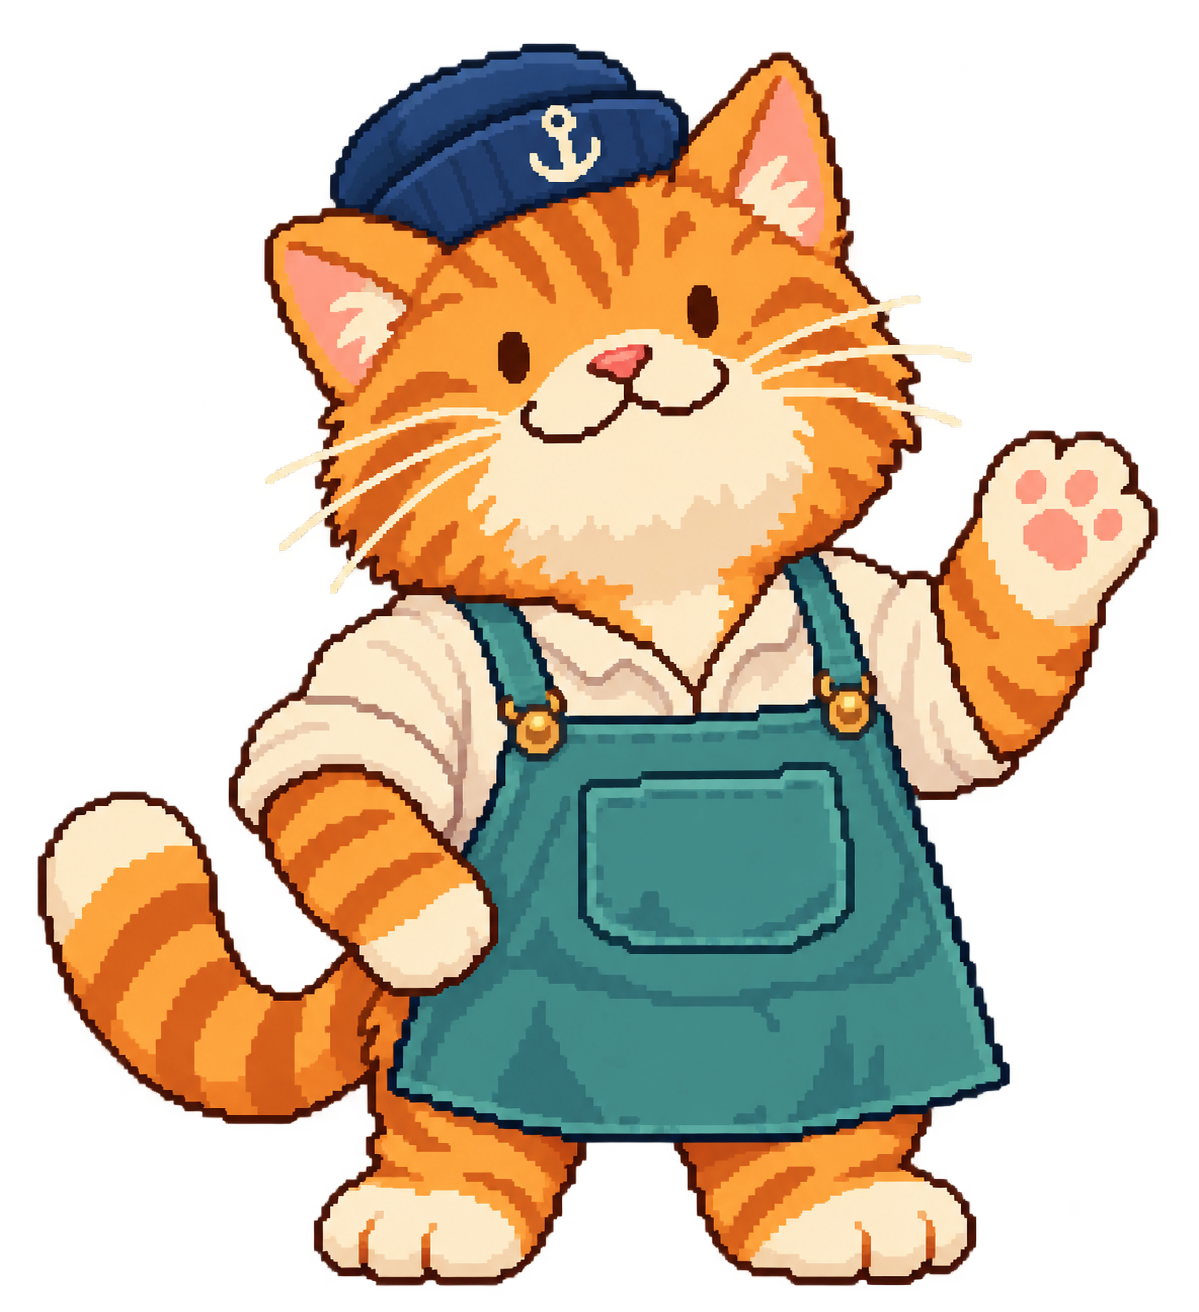
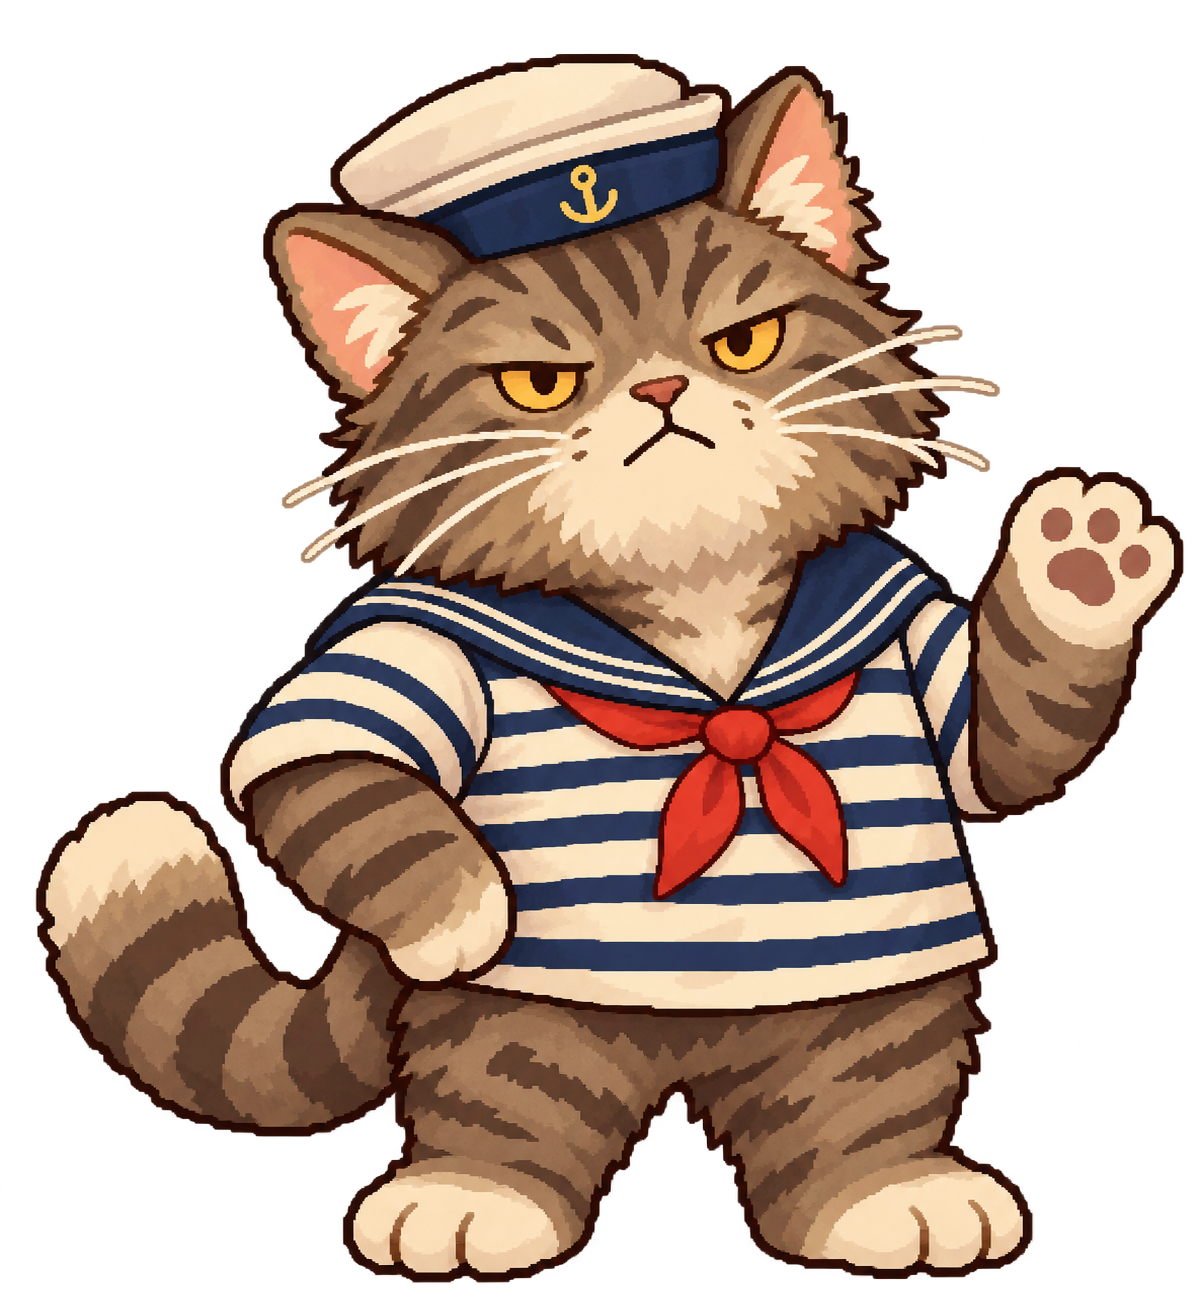
Polish fishing animations and Billy interactions

diff --git a/js/fishing/app.js b/js/fishing/app.js
@@ -1,9 +1,9 @@
 import { catches, rods, living, spriteURL, discoveries, catchSize } from './catches.js';
-import { everydayIds, dailyStock, itemById, owned, buy, toggleDecor, coinReward, billyLines } from './shop.js?v=20261026-billy-portrait';
+import { everydayIds, dailyStock, itemById, owned, buy, toggleDecor, coinReward, billyLines } from './shop.js?v=20261027-billy-lines';
 import { createStore, freshSave } from './save.js?v=20261026-billy';
 import { FishingGame } from './game.js?v=20261026-billy';
-import { FishingAudio } from './audio.js?v=20261026-billy';
-import { Renderer, loadArt } from './renderer.js?v=20261026-billy';
+import { FishingAudio } from './audio.js?v=20261027-billy-meow';
+import { Renderer, loadArt } from './renderer.js?v=20261027-bite-clearance-fix';
 import { bindInput } from './input.js';
 import { renderCollection, showDetails } from './aquarium.js?v=20261023-aquarium-calm';
 const $ = selector => document.querySelector(selector);
@@ -13,7 +13,7 @@ export async function start() {
   let storage;
   try { storage = window.localStorage; } catch { storage = { getItem() { throw Error(); }, setItem() { throw Error(); }, removeItem() { throw Error(); } }; }
   const store = createStore(storage, message => { $('#save-warning').textContent = message; $('#save-warning').hidden = false; });
-  let save = store.load(), score = 0, view = 'fish', manualPaused = false, filter = 'all', time = 0, billyLine = -1;
+  let save = store.load(), score = 0, view = 'fish', manualPaused = false, filter = 'all', time = 0, billyLine = -1, billyReactionTimer = null, billyPetted = false;
   let confirmAction = null, focusBeforeDialog = null;
   const reduced = matchMedia('(prefers-reduced-motion: reduce)');
   const audio = new FishingAudio(); audio.muted = save.muted;
@@ -55,10 +55,10 @@ export async function start() {
     beat('#beat-land',phase==='land'?'active':'upcoming');
     $('#beat-fight').textContent = game.fightTotal ? `fight ${Math.min(game.fightRound,game.fightTotal)}/${game.fightTotal}` : 'clean pull';
     if (phase === 'land') {
-      $('#timing-instruction').textContent = game.behavior==='treasure'?'one precise pull for the treasure':'one last pull — bring it home';
+      $('#timing-instruction').textContent = game.behavior==='treasure'?'one precise pull for the treasure':'one last pull. bring it home';
       $('#action').textContent = game.behavior==='treasure'?'perfect pull!':'land it!';
     } else {
-      $('#timing-instruction').textContent = game.behavior==='heavy'?'steady hands — this one is heavy':game.behavior==='fast'?'quick now — it keeps darting':game.behavior==='magic'?'the target has a mind of its own':'stop inside the striped zone';
+      $('#timing-instruction').textContent = game.behavior==='heavy'?'steady hands, this one is heavy':game.behavior==='fast'?'quick now, it keeps darting':game.behavior==='magic'?'the target has a mind of its own':'stop inside the striped zone';
       $('#action').textContent = 'pull!';
     }
     $('#meter').setAttribute('aria-description',`target from ${Math.round(game.target*100)} to ${Math.round((game.target+game.width)*100)} percent. ${phase==='land'?'make the final pull':'press space or pull inside the zone'}.`);
@@ -77,7 +77,7 @@ export async function start() {
     if (state === 'timing') {
       audio.play(game.lastResult==='perfect'?'perfect':game.lastResult==='miss'?'strain':game.lastResult==='hit'?'pull':'hook');
       fightUI();
-      $('#game-status').textContent = game.phase==='land'?'one last pull. bring it home.':`keep the line steady — pull ${game.fightRound} of ${game.fightTotal}.`;
+      $('#game-status').textContent = game.phase==='land'?'one last pull. bring it home.':`keep the line steady. pull ${game.fightRound} of ${game.fightTotal}.`;
     }
     if (state === 'reeling') audio.play(game.success?'land':'strain');
     if (state === 'caught') {
@@ -131,6 +131,16 @@ export async function start() {
     if (!item) return;
     audio.unlock().then(()=>audio.play('pet'));
     $('#aquarium-status').textContent = `${item.name} loved that. tiny heart!`;
+  });
+  $('#pet-billy').addEventListener('click',()=>{
+    audio.unlock().then(()=>audio.play('meow'));
+    const reaction=$('#billy-reaction'), alreadyPetted=billyPetted;
+    billyPetted=true;
+    reaction.textContent=alreadyPetted?'♥':'!';reaction.classList.toggle('is-heart',alreadyPetted);
+    $('#billy-says').textContent=alreadyPetted?'fine. you may pet the captain. just this once.':'hey! paws off the merchandise. and the shopkeeper.';
+    clearTimeout(billyReactionTimer);reaction.classList.remove('is-visible');void reaction.offsetWidth;reaction.classList.add('is-visible');
+    $('#billy-status').textContent=alreadyPetted?'billy accepts the pet with a tiny heart.':'billy gives you a surprised little meow.';
+    billyReactionTimer=setTimeout(()=>reaction.classList.remove('is-visible'),2000);
   });
   $('#pause').addEventListener('click',pause);$('#resume').addEventListener('click',()=>{manualPaused=false;syncPause();audio.unlock();$('#action').focus();});
   document.addEventListener('visibilitychange',()=>{ if(!document.hidden) { manualPaused=true; } syncPause(); });

diff --git a/css/fishing.css b/css/fishing.css
@@ -139,3 +139,19 @@
 .billy-speech{left:40%;top:48px;width:31%;background:#fff8e8f2}
 @media(max-width:720px){.billy-speech{left:39%;width:34%;font-size:11px!important}.billy-counter{background-position:48% center}}
 @media(max-width:440px){.billy-speech{left:42%;top:42px;width:45%;font-size:10px!important}.billy-counter{background-position:44% center}}
+
+/* Billy's sign keeps its storybook serif; the shop itself speaks in the game's type. */
+.shop-sign span,.shop-sign strong,.shop-sign small{font-family:Georgia,'Times New Roman',serif}
+#tackle-view .billy-speech,#tackle-view .wood-counter,#tackle-view .shop-heading p,#tackle-view .shop-heading h3,#tackle-view .shop-card h4,#tackle-view .shop-card small,#tackle-view .odds summary{font-family:inherit!important}
+.fishing-shell button.billy-portrait{overflow:visible;min-height:0;padding:0;border:0;border-radius:0;background:transparent;cursor:pointer}
+.fishing-shell button.billy-portrait:hover{background:transparent}
+.fishing-shell button.billy-portrait:focus-visible{outline-offset:5px}
+.billy-reaction{position:absolute;z-index:6;top:-7px;left:53%;display:grid;width:34px;height:34px;place-items:center;color:#fff8e8;background:#c4778d;border:3px solid #304e60;border-radius:50% 50% 50% 8px;box-shadow:3px 4px 0 #304e6030;font-size:22px;font-weight:800;line-height:1;opacity:0;transform:translate(-50%,10px) rotate(-8deg) scale(.55);pointer-events:none}
+.billy-reaction.is-heart{width:30px;height:30px;background:#cf7f98;font-size:15px}
+.billy-reaction.is-visible{animation:billy-surprise 2s ease-out forwards}
+@keyframes billy-surprise{0%{opacity:0;transform:translate(-50%,10px) rotate(-8deg) scale(.55)}12%,70%{opacity:1;transform:translate(-50%,-9px) rotate(4deg) scale(1)}100%{opacity:0;transform:translate(-50%,-24px) rotate(-3deg) scale(.85)}}
+@media(prefers-reduced-motion:reduce){.billy-reaction.is-visible{animation:billy-surprise 2s linear forwards!important}}
+
+/* A softer paper speech bubble without the previous blue comic outline. */
+#tackle-view .billy-speech{border:0;background:#fffdf8;box-shadow:4px 5px 0 rgba(61,53,64,.16)}
+#tackle-view .billy-speech:after{left:-18px;bottom:15px;border:9px solid transparent;border-right-color:#fffdf8}

diff --git a/js/fishing/renderer.js b/js/fishing/renderer.js
@@ -268,9 +268,10 @@ export class Renderer {
 
       const controlX = state === 'casting' ? 142 : (tipX + bobX) / 2 - 9;
       const controlY = state === 'casting' ? Math.min(tipY, bobY) - 27 : (tipY + bobY) / 2 - 5;
-      curve(ctx, tipX, tipY, controlX, controlY, bobX, bobY, CREAM);
-
+      // A successful reel swaps the bobber for the catch below, so its line is
+      // drawn once to the fish instead of leaving a second strand to the water.
       if (!(state === 'reeling' && game.success)) {
+        curve(ctx, tipX, tipY, controlX, controlY, bobX, bobY, CREAM);
         rect(ctx, bobX - 3, bobY - 3, 6, 7, INK);
         const bobber={classic:['#ee8d82',CREAM],cherry:['#bd4769','#e7a5b4'],mushroom:['#b95b61','#fff0cf'],moon:['#eadc9a','#8aa0bd']}[save.bobber]||['#ee8d82',CREAM];
         rect(ctx, bobX - 2, bobY - 4, 4, 4, bobber[0]);rect(ctx, bobX - 2, bobY, 4, 3, bobber[1]);
@@ -283,13 +284,17 @@ export class Renderer {
 
     if (['bite', 'timing'].includes(state)) {
       const shadowX = bobX - 10 + Math.sin(t * 3) * 7;
-      fishShadow(ctx, shadowX, bobY + 18, '#397d88', Math.sin(t) > 0);
+      // Keep the hooked silhouette submerged in open water even as the bobber
+      // plunges; the dock begins at y=169.
+      const shadowY = Math.min(158, bobY + 15);
+      fishShadow(ctx, shadowX, shadowY, '#397d88', Math.sin(t) > 0);
     }
 
     if (state === 'reeling' && game.success && game.item) {
       const progress = Math.min(1, game.elapsed / 1.05);
-      const fishX = 168 + 65 * progress;
-      const fishY = 145 - Math.sin(progress * Math.PI) * 58 + progress * 22;
+      const fishX = 160 + 60 * progress;
+      // Begin fully above the dock edge, rise in a clean arc, then hang by the rod.
+      const fishY = 132 - Math.sin(progress * Math.PI) * 50 - progress * 25;
       curve(ctx, tipX, tipY, (tipX + fishX) / 2, fishY - 12, fishX + 16, fishY + 10, CREAM);
       ctx.drawImage(this.art.sprites[game.item.id], Math.round(fishX), Math.round(fishY), 32, 32);
       for (let index = 0; index < 6; index++) rect(ctx, 170 + index * 5, 146 - Math.sin(progress * 15 + index) * 5, 2, 2, '#b4e3d6');

diff --git a/fishing.html b/fishing.html
@@ -14,7 +14,7 @@
   <link rel="icon" type="image/png" href="./img/flower-favicon.png?v=20261022-flower">
   <link rel="stylesheet" href="./css/site.css?v=20261022-photo-motion">
   <script src="./js/site.js" defer></script>
-<link rel="stylesheet" href="./css/fishing.css?v=20261026-billy-interior"><script type="module" src="./js/fishing/main.js?v=20261026-billy-interior"></script>
+<link rel="stylesheet" href="./css/fishing.css?v=20261027-billy-easter-egg"><script type="module" src="./js/fishing/main.js?v=20261027-billy-easter-egg"></script>
 </head>
 <body class="page-fishing">
 <a class="skip-link" href="#main">Skip to content</a>
@@ -83,8 +83,9 @@
   <section id="tackle-view" aria-label="tackle" hidden>
     <div class="shop-sign"><span>billy's</span><strong>tackle &amp; trinkets</strong><small>open daily, weather permitting</small></div>
     <div class="billy-counter">
-      <div class="billy-portrait"><img src="./assets/fishing/billy.png" alt="billy, a friendly orange sailor cat waving from behind the counter"></div>
-      <p id="billy-says" class="billy-speech">oh. it's you. I've seen you 'round the beach. catch anything good?</p>
+      <button class="billy-portrait" id="pet-billy" type="button" aria-label="say hello to billy the shopkeeper"><img src="./assets/fishing/billy.png?v=20261027-sailor" alt="billy, a scruffy grey-brown tabby sailor cat greeting you from behind the counter"><span class="billy-reaction" id="billy-reaction" aria-hidden="true">!</span></button>
+      <p id="billy-says" class="billy-speech">oh. it's you. i've seen you 'round the beach. catch anything good?</p>
+      <p id="billy-status" class="sr-only" role="status" aria-live="polite"></p>
       <div class="wood-counter"><strong><span aria-hidden="true">◉</span> <span id="shop-coins">0</span> shell coins</strong></div>
     </div>
     <div class="shop-heading"><div><h3>everyday tackle</h3></div><small>always in stock</small></div><div id="everyday-stock" class="shop-grid"></div>

diff --git a/_source/pages/fishing.html b/_source/pages/fishing.html
@@ -49,8 +49,9 @@
   <section id="tackle-view" aria-label="tackle" hidden>
     <div class="shop-sign"><span>billy's</span><strong>tackle &amp; trinkets</strong><small>open daily, weather permitting</small></div>
     <div class="billy-counter">
-      <div class="billy-portrait"><img src="./assets/fishing/billy.png" alt="billy, a friendly orange sailor cat waving from behind the counter"></div>
-      <p id="billy-says" class="billy-speech">oh. it's you. I've seen you 'round the beach. catch anything good?</p>
+      <button class="billy-portrait" id="pet-billy" type="button" aria-label="say hello to billy the shopkeeper"><img src="./assets/fishing/billy.png?v=20261027-sailor" alt="billy, a scruffy grey-brown tabby sailor cat greeting you from behind the counter"><span class="billy-reaction" id="billy-reaction" aria-hidden="true">!</span></button>
+      <p id="billy-says" class="billy-speech">oh. it's you. i've seen you 'round the beach. catch anything good?</p>
+      <p id="billy-status" class="sr-only" role="status" aria-live="polite"></p>
       <div class="wood-counter"><strong><span aria-hidden="true">◉</span> <span id="shop-coins">0</span> shell coins</strong></div>
     </div>
     <div class="shop-heading"><div><h3>everyday tackle</h3></div><small>always in stock</small></div><div id="everyday-stock" class="shop-grid"></div>

diff --git a/js/fishing/shop.js b/js/fishing/shop.js
@@ -1,10 +1,14 @@
 import { shopItems } from './catches.js';
 
 export const billyLines = [
-  "oh. it's you. I've seen you 'round the beach. catch anything good?",
-  'meow meow meow. ahem - sorry, I meant, what can i do for ya?',
+  "oh. it's you. i've seen you 'round the beach. catch anything good?",
+  'meow meow meow. ahem - sorry, i meant, what can i do for ya?',
   'hey there sailor! better have brought me a nice fish flavoured tip!',
-  'found some good stuff out there today. you should really have a look'
+  'found some good stuff out there today. you should really have a look',
+  'the tide brought in some cool stuff this morning. lucky for you, i got there first.',
+  'fresh stock, fair prices, and absolutely no haggling. unless you’ve got sardines. then we can haggle.',
+  "if you’re heading back out, don't forget to bring your sea legs with you.",
+  "i had a nap planned, but i guess i'll sell you stuff now."
 ];
 export const everydayIds = ['seaweed','sparkle','sea-glass','ribbon','cherry','mushroom'];
 const dailyIds = ['lucky-biscuit','sunset','moon-thread','moon','pink-tackle-box','dock-lantern','pennants','potted-plant','bubble-lamp','shell-arch','tiny-castle','pink-coral'];

diff --git a/js/fishing/audio.js b/js/fishing/audio.js
@@ -11,6 +11,20 @@ export class FishingAudio {
   }
   play(kind) {
     if (this.muted || !this.context || this.context.state !== 'running') return;
+    if (kind === 'meow') {
+      const start = this.context.currentTime;
+      const oscillator = this.context.createOscillator(), gain = this.context.createGain();
+      oscillator.type = 'triangle';
+      oscillator.frequency.setValueAtTime(720, start);
+      oscillator.frequency.exponentialRampToValueAtTime(430, start + .16);
+      oscillator.frequency.exponentialRampToValueAtTime(610, start + .3);
+      gain.gain.setValueAtTime(.001, start);
+      gain.gain.linearRampToValueAtTime(.055, start + .025);
+      gain.gain.exponentialRampToValueAtTime(.001, start + .34);
+      oscillator.connect(gain).connect(this.context.destination);
+      oscillator.start(start); oscillator.stop(start + .35);
+      return;
+    }
     const notes = {
       cast: [280, 190], splash: [180, 120], bite: [660, 880, 660], hook: [440, 560],
       pet: [659, 880, 1047],

diff --git a/js/fishing/main.js b/js/fishing/main.js
@@ -1,5 +1,5 @@
 // Keep a useful message visible even if an asset or module cannot load.
-import('./app.js?v=20261026-billy-interior').then(({ start }) => start()).catch(error => {
+import('./app.js?v=20261027-billy-easter-egg').then(({ start }) => start()).catch(error => {
   document.querySelector('#game-status').textContent = 'the dock could not load. please refresh to try again.';
   const notice = document.querySelector('#save-warning');
   notice.textContent = error.message; notice.hidden = false;

diff --git a/scripts/build.py b/scripts/build.py
@@ -30,7 +30,7 @@ def build():
         # User preference applies to page metadata as well as visible prose.
         title = re.sub(r'(?<=\w)-(?=\w)', ' ', title).replace('—', '|').replace('–', '|')
         description = re.sub(r'(?<=\w)-(?=\w)', ' ', description).replace('—', ', ').replace('–', ', ')
-        values = {'title': escape(title), 'description': escape(description, quote=True), 'canonical': canonical, 'header': header, 'footer': footer, 'content': source.read_text(encoding='utf-8'), 'body_class': slug, 'page_assets': '<link rel="stylesheet" href="./css/fishing.css?v=20261026-billy-interior"><script type="module" src="./js/fishing/main.js?v=20261026-billy-interior"></script>' if slug == 'fishing' else ''}
+        values = {'title': escape(title), 'description': escape(description, quote=True), 'canonical': canonical, 'header': header, 'footer': footer, 'content': source.read_text(encoding='utf-8'), 'body_class': slug, 'page_assets': '<link rel="stylesheet" href="./css/fishing.css?v=20261027-billy-easter-egg"><script type="module" src="./js/fishing/main.js?v=20261027-billy-easter-egg"></script>' if slug == 'fishing' else ''}
         for key, value in values.items():
             page = page.replace('{{' + key + '}}', value)
         for name in ('work', 'research', 'about', 'play'):
